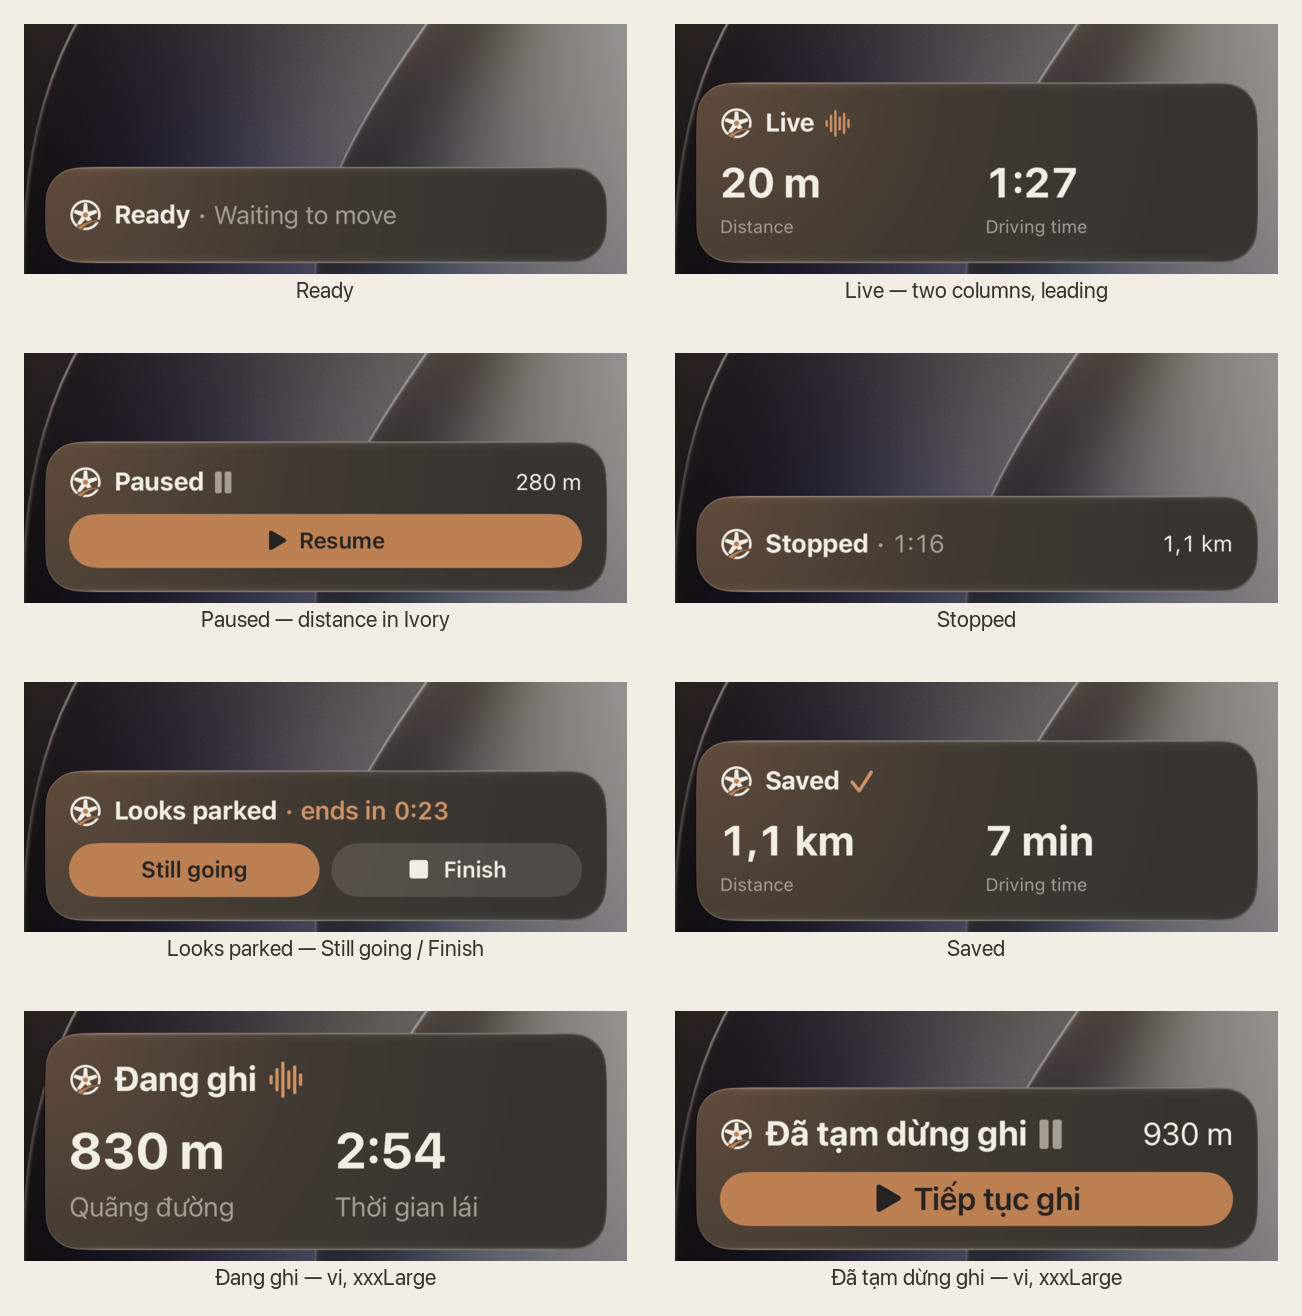
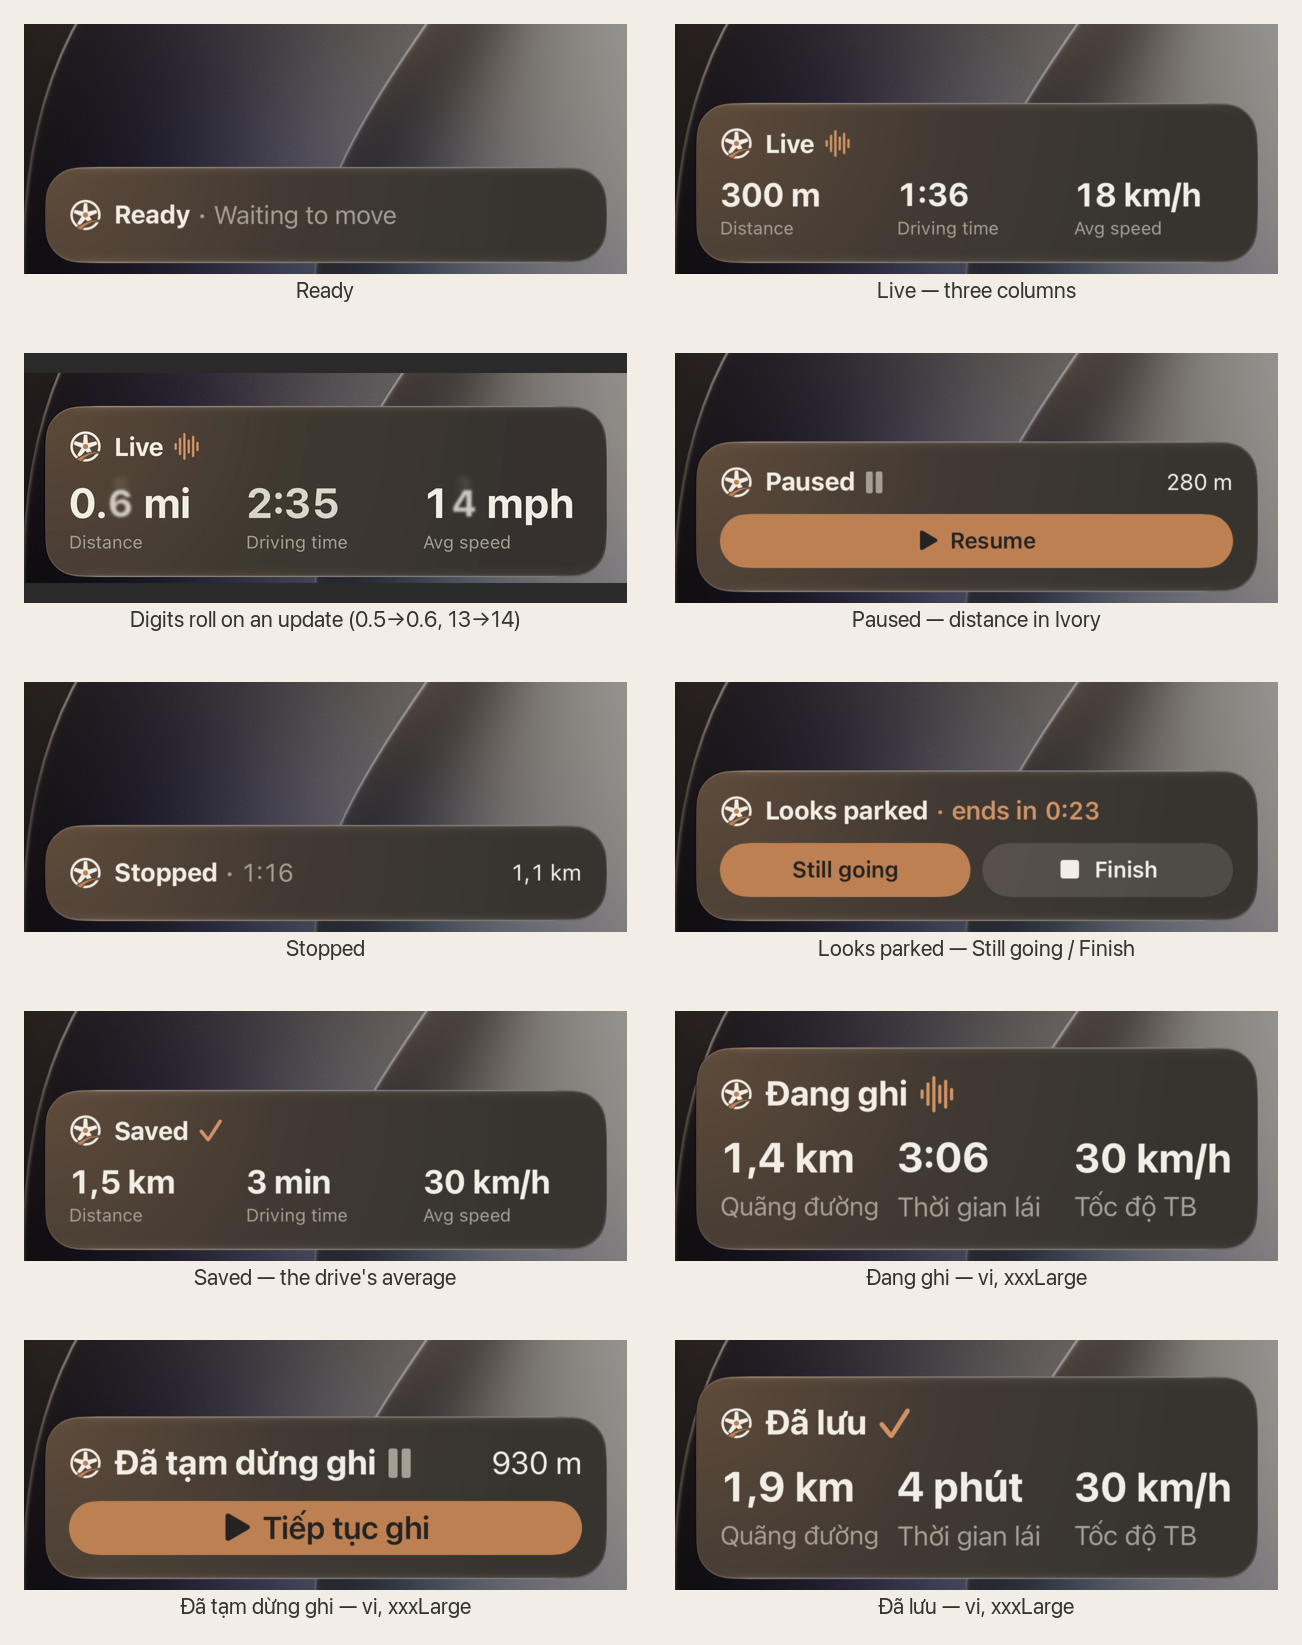
docs(design): live activity with average speed; d2 revised

diff --git a/design/mockups/README.md b/design/mockups/README.md
@@ -57,7 +57,7 @@ These boards are retained as explorations; their presence does not establish app
 | [`journey-trim.png`](journeys/journey-trim.png) | Trim as a video-editor timeline: **chosen** A with B's chips (figures with what the trim takes away in Copper, speed-coloured bar timeline, Starts/Ends with the old time struck through, chips After leaving Home · Leave out the walks · After the stop); explored: A Photos-style (map above, speed-profile timeline with two Copper handles, recommended), B the same with one-tap smart ends (leave out the walks, after a stop) and snapping, C full-screen map with the timeline in a glass card and a scrubbing playhead; the detail after a trim; largest Dynamic Type; open decisions (source: `source/journey-trim.html`; spec `carodo-ios/docs/specs/journeys.md`, Trim) | Drawn 2026-11-05; A + chips chosen 2026-11-05 |
 | [`replay-video-frame.png`](replay/replay-video-frame.png), [`replay-video-built.png`](replay/replay-video-built.png) | What a Replay video shows beside the map, on real frames of the renderer (sample drive): three layouts (A top block, B card at the foot, C no surface), A in Light and Dark, English and Vietnamese, the opening and the arrival; then frames of the build (source: `source/replay-video.html`, frames in `source/replay-video/`; plan `plans/cinematic-replay.md`, W4b) | Drawn 2026-11-13; **A chosen** and built 2026-11-13 |
 | [`recording-polish.png`](drive/recording-polish.png) | Recording polish: the Map while recording (live line, "Recording · time · distance" chip, Auto Mode button marking its own drive), the stop and car-audio countdowns, the source in the panels (by hand · Auto Mode · Shortcut), paused, the toast after an automatic end, the 24 h dropped-drive line with Keep it, the source filter and detail line, largest Dynamic Type (source: `source/recording-polish.html`; plan `plans/recording-polish.md`) | Drawn and approved 2026-11-03 |
-| [`live-activity-built.png`](drive/live-activity-built.png) | The Live Activity as built, on the Lock Screen (Simulator, a drive played from a GPX route; no map or place on the card): Ready, Live (Distance and Driving time in two equal columns, each at its leading edge), Paused (the distance at the right in Ivory), Stopped, Looks parked with Still going and Finish, Saved; Live and Paused in Vietnamese at xxxLarge (spec `carodo-ios/docs/specs/drive-recording.md`, Live Activity) | Built and accepted 2026-11-18 |
+| [`live-activity-built.png`](drive/live-activity-built.png) | The Live Activity as built, on the Lock Screen (Simulator, a drive played from a GPX route; no map or place on the card): Ready, Live (Distance, Driving time and Average speed in three equal columns, each at its leading edge), a frame of the digits rolling on an update, Paused (the distance at the right in Ivory), Stopped, Looks parked with Still going and Finish, Saved; Live, Paused and Saved in Vietnamese at xxxLarge (spec `carodo-ios/docs/specs/drive-recording.md`, Live Activity) | Built and accepted 2026-11-18; average speed added and accepted 2026-11-19 |
 
 ## Where the ideas differ from the current docs
 

diff --git a/plans/live-activity.md b/plans/live-activity.md
@@ -156,7 +156,7 @@ and without the activity (same phone, same route).
 | # | Decision | Recommendation |
 |---|---|---|
 | D1 | An Auto Mode drive started in the background has no Live Activity until Carodo is opened (Apple's rule). Accept for V1? | **Accept.** The alternatives are a server push (refused: P1, P7) or a local notification "Recording · open to follow" (a notification permission Carodo does not ask for today). Revisit the notification with the notification work, if any. |
-| D2 | What the Lock Screen shows: phase, elapsed, distance, vehicle name; no speed, no place, no start time | **As listed.** Speed needs an update every few seconds and invites a look while moving. The vehicle name is the person's own label, never a plate. |
+| D2 | What the Lock Screen shows: phase, elapsed, distance, vehicle name; no speed, no place, no start time | **As listed.** Speed needs an update every few seconds and invites a look while moving. The vehicle name is the person's own label, never a plate. **Revised 2026-11-18:** the average speed joins distance and driving time as a third figure (it moves slowly, so a frame every 30 s stays true); still no current speed. |
 | D3 | Still going and Resume on the Lock Screen (LA2) | **Yes**: they mirror the panel and only keep a drive going, so a wrong tap loses nothing. |
 | D4 | Finish from the Lock Screen | **Only at a parked stop** ("Looks parked"), beside Still going. Never while moving: the app asks for a hold to finish, a Lock Screen button is one tap. No Pause button. |
 | D5 | Log fuel at a stop (LA3): shown after the car has been stopped 2 minutes, with a vehicle chosen; opens the app on the fuel form (Face ID first), since the Lock Screen cannot take numbers | **Yes, as LA3**, with the new link `carodo://vehicle/fuel` (P6). |
